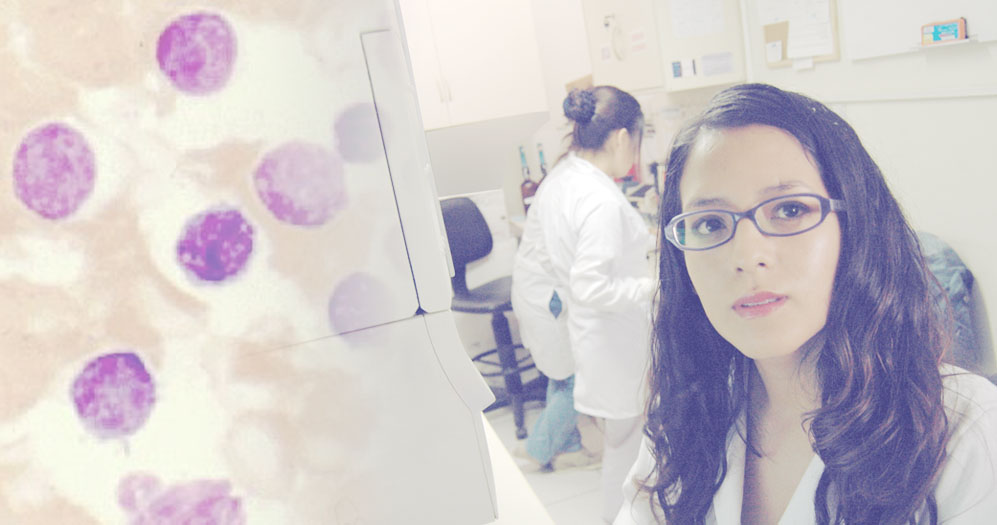
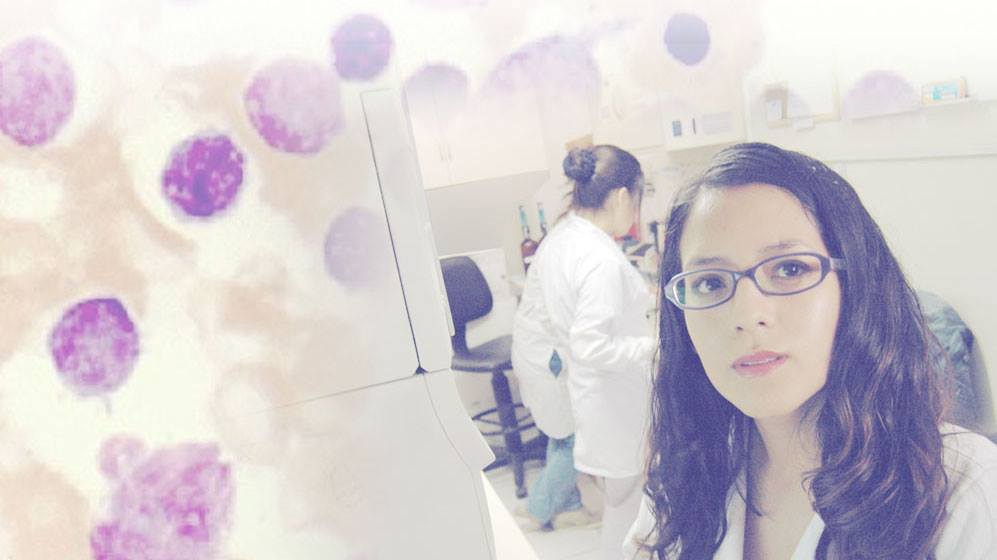
Cambios - Imagenes Staff y Contacts

diff --git a/Cytometric/css/staff.css b/Cytometric/css/staff.css
@@ -17,7 +17,7 @@ html {
 
 div.content-slider {
     width: auto;
-    height: 650px;
+    height: 450px;
     background: #fff;
 }
 
@@ -43,7 +43,7 @@ div.content-slider img:nth-child(1){
     position: relative;
     bottom: 70px;
     padding-left: 4%;
-    background: rgba(0,0,0,.4);
+    background: rgba(0,0,0,.3);
 }
 
 
@@ -52,7 +52,8 @@ div.content-slider img:nth-child(1){
     height: auto;
     margin: 2.5%;
     display: inline-block;
-    border-style: solid;
+    border-bottom-style: solid;
+    border-top-style: solid; 
     border-color: #000;
 }
 .content-footer{
@@ -95,7 +96,8 @@ h2,h4{
     float:left;
     width: auto;
     height: 350px;
-    margin: 2% 10% 2% 5%;
+    margin: 2% 10% 5% 2%;
+    border-radius: 5%;
     display: inline-block;
     margin-bottom: 2%;
     border-style: solid;
@@ -104,8 +106,11 @@ h2,h4{
 .content-header2 span img {
     float:right;
     width: 400px;
-    margin: 5% 5% 5% 10%;
+    margin: 0% 0% 5% 0%;
+    border-radius: 5%;
     border-style: solid;
+    display: inline-block;
+    opacity: .85;
 }
 
 
@@ -137,9 +142,8 @@ p{
 @media (max-width: 479px) {
     
     .content-header span img{
-        width: 98%;
+        width: 100%;
         margin: 0;
-        margin-bottom: 5%;
         padding: 0;
     }
     
@@ -147,7 +151,6 @@ p{
         width: 98%;
         padding: 0%;
         margin: 0%;
-        margin-bottom: 5%;
    }
     
     .content-data{

diff --git a/Cytometric/staff.html b/Cytometric/staff.html
@@ -70,7 +70,7 @@
             <section class="content-data">
                 <div class="content-data-line">
                     <section class="content-header">
-                        <span><img src="img/staff/Dr_Dyer.jpg"><h2>Dr. Richard Rodrigo Dyer Velarde-Alvarez</h2><h4>CMP 17738 | RNE 11500 - Médico Anátomo Patólogo<br>Director Científico</h4></span>
+                        <span><img src="img/staff/Dr_Dyer2.jpg"><h2>Dr. Richard Rodrigo Dyer Velarde-Alvarez</h2><h4>CMP 17738 | RNE 11500 - Médico Anátomo Patólogo<br>Director Científico</h4></span>
                     </section>
                     
                     <section class="content-footer">
@@ -140,6 +140,11 @@
             </div>
         </div>
     </footer>
+        
+    <script type="text/javascript" src="js/freelancer.js"></script>
+    <script type="text/javascript" src="js/jquery.js"></script>
+    <script type="text/javascript" src="js/cbpAnimatedHeader.js"></script>    
+        <script type="text/javascript" src="js/cbpAnimatedHeader.min.js"></script>
     </body>
     
     

diff --git a/Cytometric/contactos.html b/Cytometric/contactos.html
@@ -68,7 +68,7 @@
         </div>
         
         <div class="content-info">
-            <div class="content-data" style="background:#DACAFB">
+            <div class="content-data">
                 <div class="content-data-header">
                     <h2>Sede Lima</h2>
                 </div>
